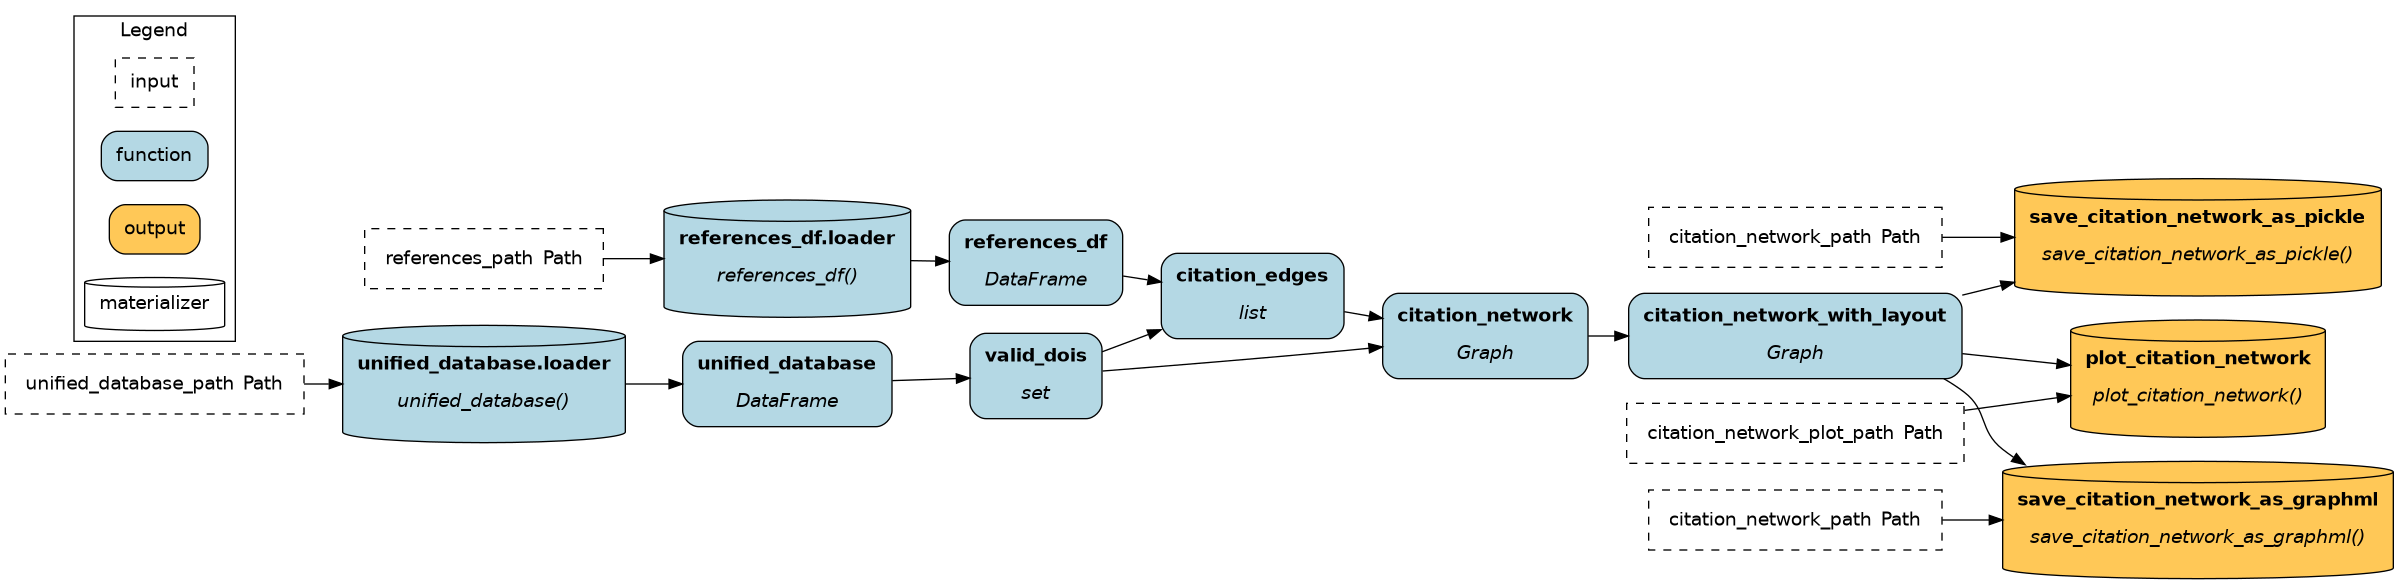
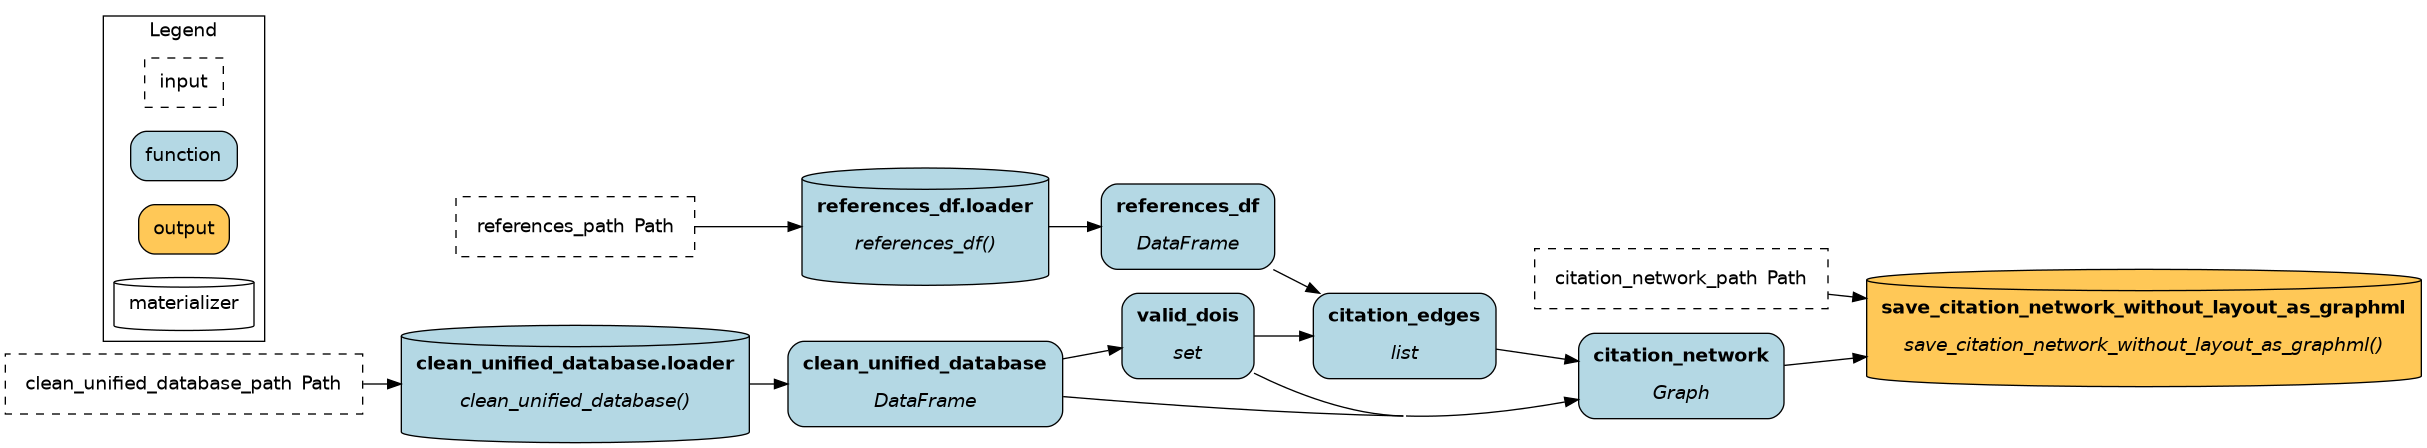
feat(pipelines): add attributes to graph in buil_citation_network

diff --git a/motor_learning_network/build_citation_network.py b/motor_learning_network/build_citation_network.py
@@ -49,11 +49,11 @@ def _main() -> int:
     ## Inputs and Outputs ##
     ########################
     inputs = dict(
-        unified_database_path=PROCESSED_DATA_PATH / "clean_unified_database.parquet",
+        clean_unified_database_path=PROCESSED_DATA_PATH / "clean_unified_database.parquet",
         references_path=PROCESSED_DATA_PATH / "references_opencitations.parquet",
         # references_path=PROCESSED_DATA_PATH / "updated_references.parquet",
         citation_network_path=PROCESSED_DATA_PATH / "citation_network", #format will be added later
-        citation_network_plot_path=FIGURES_PATH / "citation_network", # will be added later
+        citation_network_plot_path=FIGURES_PATH / "citation_network", #format will be added later
     )
     outputs = [
         # "save_citation_network_as_pickle",
@@ -123,10 +123,10 @@ def _build_edges_from_references(
 #########################
 
 @dataloader()
-def unified_database(unified_database_path: Path) -> tuple[pd.DataFrame, dict]:
+def clean_unified_database(clean_unified_database_path: Path) -> tuple[pd.DataFrame, dict]:
     """Load the unified (cleaned) database of papers."""
-    db = pd.read_parquet(unified_database_path)
-    return db, utils.get_file_metadata(unified_database_path)
+    db = pd.read_parquet(clean_unified_database_path)
+    return db, utils.get_file_metadata(clean_unified_database_path)
 
 
 @dataloader()
@@ -139,9 +139,9 @@ def references_df(references_path: Path) -> tuple[pd.DataFrame, dict]:
     return df, utils.get_file_metadata(references_path)
 
 
-def valid_dois(unified_database: pd.DataFrame) -> set[str]:
+def valid_dois(clean_unified_database: pd.DataFrame) -> set[str]:
     """Extract the set of lowercase DOIs present in the unified database."""
-    dois = unified_database["doi"].dropna()
+    dois = clean_unified_database["doi"].dropna()
     dois = dois[dois != ""].str.lower()
     return set(dois.tolist())
 
@@ -154,7 +154,7 @@ def citation_edges(references_df: pd.DataFrame, valid_dois: set[str]) -> list[tu
     return edges
 
 
-def citation_network(citation_edges: list[tuple[str, str]], valid_dois: set[str]) -> ig.Graph:
+def citation_network(citation_edges: list[tuple[str, str]], valid_dois: set[str], clean_unified_database: pd.DataFrame) -> ig.Graph:
     """Build a directed igraph citation network.
 
     Every paper in the unified database gets a vertex (isolated papers
@@ -165,7 +165,8 @@ def citation_network(citation_edges: list[tuple[str, str]], valid_dois: set[str]
 
     g = ig.Graph(directed=True)
     g.add_vertices(len(all_dois))
-    g.vs["name"] = all_dois  # vertex attribute: DOI string
+    g.vs["name"] = all_dois  # fast lookup
+    g.vs["doi"] = g.vs["name"]
 
     int_edges = [(doi_to_idx[src], doi_to_idx[dst]) for src, dst in citation_edges]
     g.add_edges(int_edges)
@@ -186,13 +187,20 @@ def citation_network(citation_edges: list[tuple[str, str]], valid_dois: set[str]
     logger.info(
         f"Citation network after taking giant components: {giant.vcount()} vertices, {giant.ecount()} edges."
     )
+
+    clean_unified_database = clean_unified_database.set_index("doi")
+    columns = clean_unified_database.columns.to_list()
+    for col in columns:
+        giant.vs[col] = clean_unified_database.loc[giant.vs["name"], col].tolist()
+    giant.vs["keywords"] = ["|".join(map(str.strip, keywords)) if keywords.tolist() else "" for keywords in giant.vs["keywords"]]
+    giant.vs["authors"] = ["|".join(map(str.strip, authors)) if authors.tolist() else "" for authors in giant.vs["authors"]]
     return giant
 
 @datasaver()
 def save_citation_network_without_layout_as_graphml(citation_network: ig.Graph, citation_network_path: Path) -> dict:
     """Save the igraph citation network as a pickle file."""
     path = citation_network_path.with_name(f"{citation_network_path.stem}_without_layout")
-    path = citation_network_path.with_suffix(".graphml")
+    path = path.with_suffix(".graphml")
     citation_network.write(path)
     metadata = utils.get_file_metadata(path)
     return metadata
